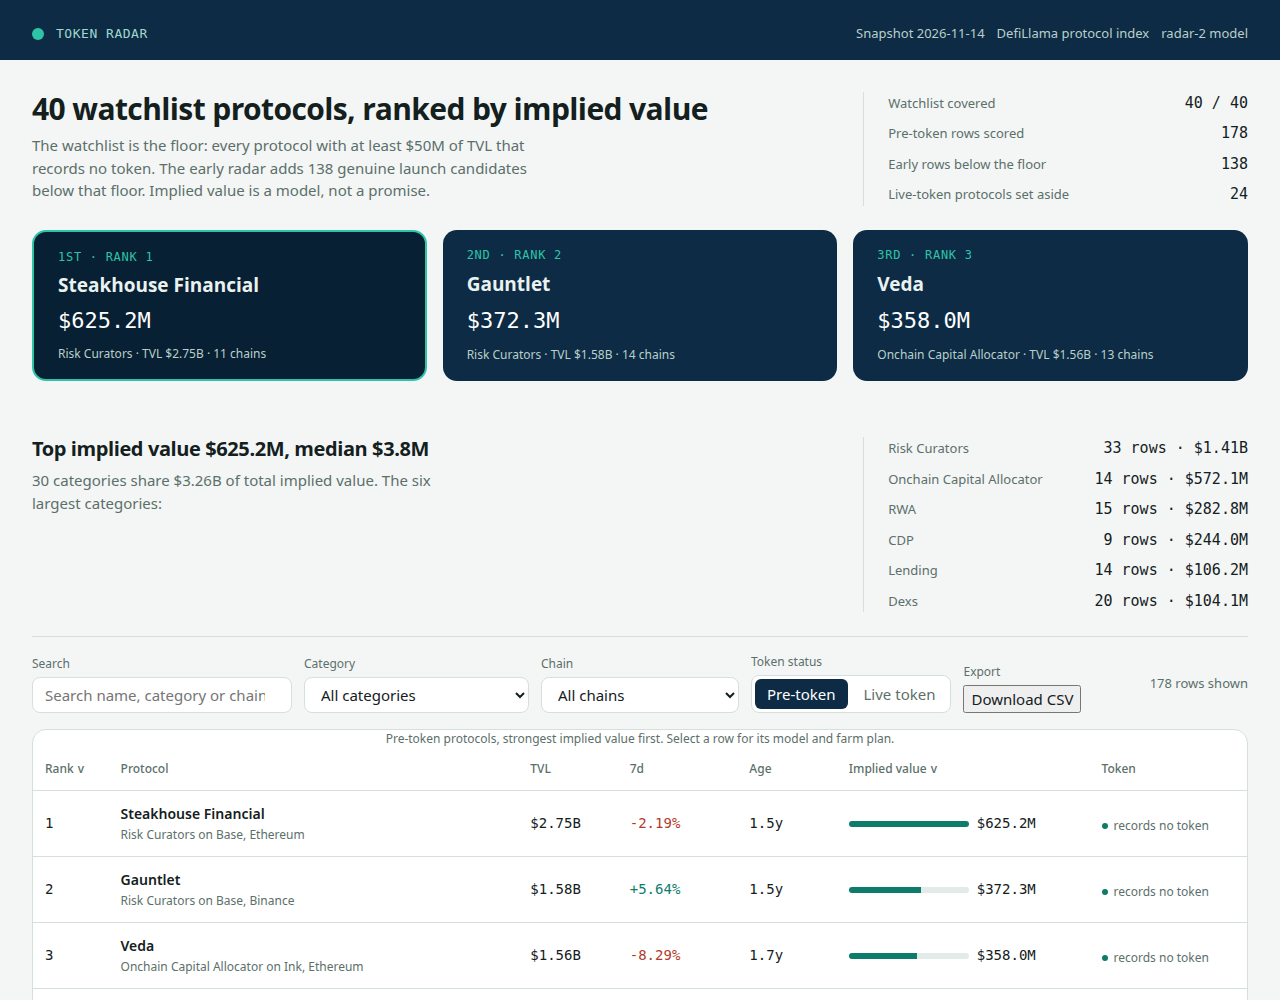
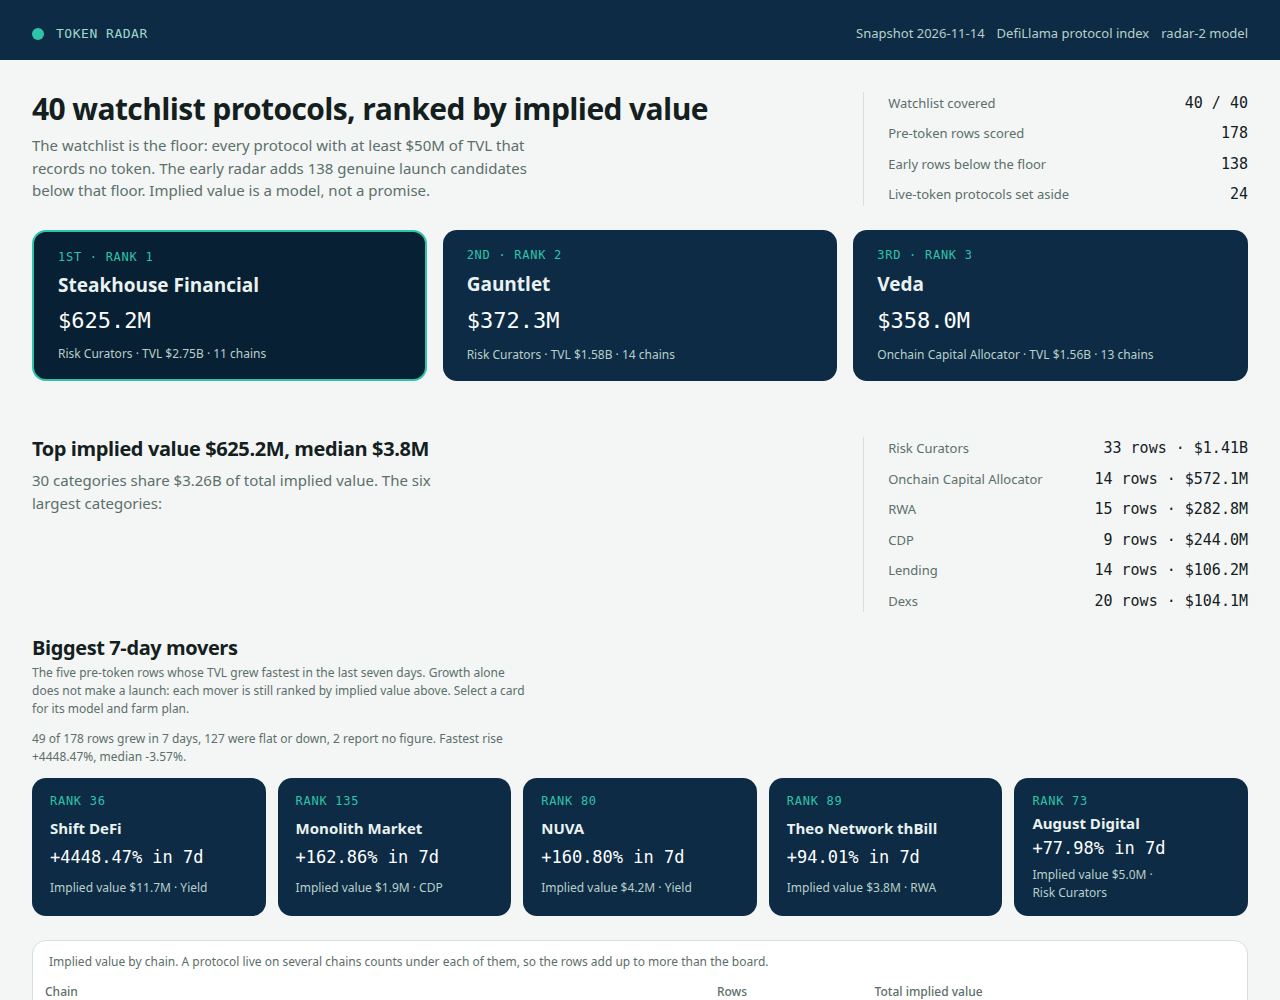
token-radar-01: round 3 - movers strip, chain table, growth summary, read-back validation

Changed region(s): [[0.0, 0.62, 1.0, 1.0], [0.9062, 0.682, 0.9688, 0.713]]

diff --git a/lib/model.ts b/lib/model.ts
@@ -163,6 +163,13 @@ export interface BoardSummary {
   categories: { name: string; rows: number; total_implied_usd: number }[];
 }
 
+/** One chain's share of the board: how many rows run on it and what they are worth together. */
+export interface ChainSummaryRow {
+  chain: string;
+  rows: number;
+  total_implied_usd: number;
+}
+
 /** Everything the dashboard needs: the board, the live set, and the model it runs. */
 export interface RadarData {
   as_of: string;
@@ -175,6 +182,9 @@ export interface RadarData {
   early_size: number;
   live_size: number;
   summary: BoardSummary;
+  movers: RadarRow[];
+  growth: GrowthSummary;
+  chainSummary: ChainSummaryRow[];
   rows: RadarRow[];
   live: LiveRow[];
 }
@@ -303,7 +313,7 @@ export function buildBoard(snapshot: Snapshot, model: ModelConstants = MODEL): B
       chain_count: s.p.chains.length,
       age_days: s.age,
     },
-    farm_steps: farmSteps(s.p, s.age).map(stepText),
+    farm_steps: farmSteps(s.p, s.age, snapshot.as_of).map(stepText),
   }));
 }
 
@@ -376,17 +386,19 @@ function weeklyFor(p: SnapshotProtocol, capital: number, chain: string): string 
 }
 
 /**
- * A protocol's farm plan: six steps, each an action with a cost and a time.
+ * A protocol's farm plan: seven steps, each an action with a cost and a time.
  * The plan is derived from the protocol's own record (category, chains,
  * TVL, age), never from a hand-written list of names. Step 2 opens the
- * position; step 3 is the weekly action for the protocol's own category.
+ * position; step 3 is the weekly action for the protocol's own category;
+ * step 7 checks the snapshot is still current before any money moves.
  */
-export function farmSteps(p: SnapshotProtocol, age: number | null): FarmStep[] {
+export function farmSteps(p: SnapshotProtocol, age: number | null, asOf?: string): FarmStep[] {
   const chain = chainOf(p);
   const capital = capitalFor(p);
   const hold = holdDaysFor(age);
   const action = actionFor(p, capital, chain);
   const weekly = weeklyFor(p, capital, chain);
+  const asOfText = asOf ?? 'the snapshot date';
   return [
     {
       text: `Use a fresh wallet that holds only the funds you plan to farm, and keep its seed phrase offline.`,
@@ -416,6 +428,11 @@ export function farmSteps(p: SnapshotProtocol, age: number | null): FarmStep[] {
     {
       text: `Write the wallet, the dates and every transaction in a farm log so you can repeat the position or unwind it.`,
       cost: 'nothing but the log',
+      time: '5 minutes',
+    },
+    {
+      text: `Check the snapshot date (${asOfText}) and confirm ${p.name} still records no token before you farm: a launch after that date ends the farm, so a stale snapshot means starting over.`,
+      cost: 'nothing but the check',
       time: '5 minutes',
     },
   ];
@@ -488,6 +505,61 @@ export function boardSummary(board: BoardRow[]): BoardSummary {
   };
 }
 
+/** The board's seven-day growth spread: its fastest rise, its middle value, and how many rows rose, fell or report no figure. */
+export interface GrowthSummary {
+  max_growth_pct: number | null;
+  median_growth_pct: number | null;
+  positive_rows: number;
+  flat_or_negative_rows: number;
+  no_data_rows: number;
+}
+
+/** The growth spread, from the rows alone: a null figure counts as no data, never as zero growth. */
+export function growthSummary(board: BoardRow[]): GrowthSummary {
+  const growths = board.map((r) => r.change_7d).filter((g): g is number => g !== null);
+  const sorted = [...growths].sort((a, b) => a - b);
+  const median =
+    sorted.length === 0
+      ? null
+      : sorted.length % 2 === 1
+        ? sorted[(sorted.length - 1) / 2]!
+        : Math.round(((sorted[sorted.length / 2 - 1]! + sorted[sorted.length / 2]!) / 2) * 100) / 100;
+  return {
+    max_growth_pct: sorted.length > 0 ? sorted[sorted.length - 1]! : null,
+    median_growth_pct: median,
+    positive_rows: growths.filter((g) => g > 0).length,
+    flat_or_negative_rows: growths.filter((g) => g <= 0).length,
+    no_data_rows: board.length - growths.length,
+  };
+}
+
+/** The five board rows with the largest seven-day growth, ties broken by implied value. */
+export function topMovers(board: BoardRow[]): BoardRow[] {
+  const growthOf = (r: BoardRow): number => (r.change_7d === null ? Number.NEGATIVE_INFINITY : r.change_7d);
+  return [...board]
+    .sort((a, b) => growthOf(b) - growthOf(a) || b.implied_value_usd - a.implied_value_usd || (a.slug < b.slug ? -1 : a.slug > b.slug ? 1 : 0))
+    .slice(0, 5);
+}
+
+/** One chain's share of the board: how many rows run on it and what they are worth together. */
+export function chainSummary(board: BoardRow[]): ChainSummaryRow[] {
+  const byChain = new Map<string, { rows: number; total_implied_usd: number }>();
+  for (const r of board) {
+    // A protocol live on several chains counts under each of them: the
+    // table answers "what runs on this chain", not "what runs only here".
+    const chains = r.chains.length > 0 ? r.chains : ['Unchained'];
+    for (const chain of chains) {
+      const slot = byChain.get(chain) ?? { rows: 0, total_implied_usd: 0 };
+      slot.rows += 1;
+      slot.total_implied_usd += r.implied_value_usd;
+      byChain.set(chain, slot);
+    }
+  }
+  return [...byChain.entries()]
+    .map(([chain, s]) => ({ chain, rows: s.rows, total_implied_usd: s.total_implied_usd }))
+    .sort((a, b) => b.total_implied_usd - a.total_implied_usd || b.rows - a.rows || (a.chain < b.chain ? -1 : a.chain > b.chain ? 1 : 0));
+}
+
 /** Everything the dashboard renders, from the snapshot. */
 export function buildRadar(snapshot: Snapshot, model: ModelConstants = MODEL): { board: BoardRow[]; radar: RadarData } {
   const board = buildBoard(snapshot, model);
@@ -504,6 +576,9 @@ export function buildRadar(snapshot: Snapshot, model: ModelConstants = MODEL): {
     early_size: early,
     live_size: live.length,
     summary: boardSummary(board),
+    movers: topMovers(board).map(radarRow),
+    growth: growthSummary(board),
+    chainSummary: chainSummary(board),
     rows: board.map(radarRow),
     live,
   };

diff --git a/main.ts b/main.ts
@@ -54,6 +54,55 @@ mkdirSync(outDir, { recursive: true });
 writeFileSync(join(outDir, 'board.json'), `${JSON.stringify({ rows: board })}\n`);
 writeFileSync(join(outDir, 'data.js'), dataScript(radar));
 
+// Read the board back and prove the file on disk is the ranking the model
+// wrote: ranks exactly 1..N in order and implied values never rising down
+// the board. A corrupt write is refused here, naming the offending row.
+const boardText = readFileSync(join(outDir, 'board.json'), 'utf8');
+let boardBack: { rows: { rank: number; slug: string; implied_value_usd: number; farm_steps: string[] }[] };
+try {
+  boardBack = JSON.parse(boardText) as { rows: { rank: number; slug: string; implied_value_usd: number }[] };
+} catch (e) {
+  process.stderr.write(`token radar: ${join(outDir, 'board.json')} does not parse as JSON: ${(e as Error).message}\n`);
+  process.exit(1);
+}
+if (!boardBack || !Array.isArray(boardBack.rows) || boardBack.rows.length !== board.length) {
+  process.stderr.write(`token radar: ${join(outDir, 'board.json')} holds ${Array.isArray(boardBack?.rows) ? boardBack.rows.length : 'no'} rows, the board has ${board.length}\n`);
+  process.exit(1);
+}
+for (let i = 0; i < boardBack.rows.length; i++) {
+  const row = boardBack.rows[i]!;
+  if (row.rank !== i + 1) {
+    process.stderr.write(`token radar: ${join(outDir, 'board.json')} row ${i + 1} is ${row.slug} with rank ${row.rank}: ranks must run 1..${board.length} in order\n`);
+    process.exit(1);
+  }
+  if (i > 0 && row.implied_value_usd > boardBack.rows[i - 1]!.implied_value_usd) {
+    process.stderr.write(`token radar: ${join(outDir, 'board.json')} ${row.slug} at rank ${row.rank} outranks ${boardBack.rows[i - 1]!.slug} on implied value: the file does not match the ranking\n`);
+    process.exit(1);
+  }
+}
+// The read-back also proves the file's farm plans and coverage, not just
+// its order: every row carries 3..12 steps of 20..600 characters, and the
+// whole watchlist is in the file. boardIssue checked the board in memory;
+// this checks the bytes that will be judged.
+const backSlugs = new Set(boardBack.rows.map((r) => r.slug));
+const missing = snapshot.watchlist.filter((s) => !backSlugs.has(s));
+if (missing.length > 0) {
+  process.stderr.write(`token radar: ${join(outDir, 'board.json')} misses ${missing.length} watchlist slug${missing.length === 1 ? '' : 's'}: ${missing.slice(0, 5).join(', ')}\n`);
+  process.exit(1);
+}
+for (const row of boardBack.rows) {
+  if (!Array.isArray(row.farm_steps) || row.farm_steps.length < 3 || row.farm_steps.length > 12) {
+    process.stderr.write(`token radar: ${join(outDir, 'board.json')} ${row.slug} has ${Array.isArray(row.farm_steps) ? row.farm_steps.length : 'no'} farm steps: each row needs 3..12\n`);
+    process.exit(1);
+  }
+  for (const step of row.farm_steps) {
+    if (typeof step !== 'string' || step.length < 20 || step.length > 600) {
+      process.stderr.write(`token radar: ${join(outDir, 'board.json')} ${row.slug} has a farm step of ${typeof step === 'string' ? step.length : 'no'} characters: each step needs 20..600\n`);
+      process.exit(1);
+    }
+  }
+}
+
 // Read the dashboard data back and prove it parses: a corrupt data.js
 // would ship a blank page, so refuse it here and name the file.
 const dataText = readFileSync(join(outDir, 'data.js'), 'utf8');
@@ -67,6 +116,27 @@ try {
   const parsed = JSON.parse(jsonText);
   if (!parsed || !Array.isArray(parsed.rows) || parsed.rows.length !== board.length) {
     process.stderr.write(`token radar: ${join(outDir, 'data.js')} holds ${Array.isArray(parsed?.rows) ? parsed.rows.length : 'no'} rows, the board has ${board.length}: the dashboard data does not match the board\n`);
+    process.exit(1);
+  }
+  // The dashboard's extra sections must be in the file too, and agree with
+  // the board: five movers, a non-empty chain table, a summary, and growth
+  // counts that add up to the board. A build that forgot one of them would
+  // otherwise ship a page with a blank section and no error anywhere.
+  if (!Array.isArray(parsed.movers) || parsed.movers.length !== 5) {
+    process.stderr.write(`token radar: ${join(outDir, 'data.js')} holds ${Array.isArray(parsed.movers) ? parsed.movers.length : 'no'} movers, the movers strip needs 5\n`);
+    process.exit(1);
+  }
+  if (!Array.isArray(parsed.chainSummary) || parsed.chainSummary.length === 0) {
+    process.stderr.write(`token radar: ${join(outDir, 'data.js')} holds no chain summary: the chain table would render empty\n`);
+    process.exit(1);
+  }
+  if (!parsed.summary || typeof parsed.summary.top_implied_usd !== 'number') {
+    process.stderr.write(`token radar: ${join(outDir, 'data.js')} holds no board summary: the summary strip would render empty\n`);
+    process.exit(1);
+  }
+  const g = parsed.growth;
+  if (!g || g.positive_rows + g.flat_or_negative_rows + g.no_data_rows !== board.length) {
+    process.stderr.write(`token radar: ${join(outDir, 'data.js')} growth counts do not add up to ${board.length} rows: the movers strip would misstate the board\n`);
     process.exit(1);
   }
 } catch (e) {
@@ -120,5 +190,6 @@ writeFileSync(
 process.stdout.write(
   `token radar: ${snapshot.protocols.length} protocols, ${snapshot.watchlist.length} on the watchlist, ${board.length} rows scored (${radar.early_size} early, ${radar.live_size} live set aside)\n` +
     `token radar: top implied value $${radar.summary.top_implied_usd}, median $${radar.summary.median_implied_usd}, ${radar.summary.category_count} categories, $${radar.summary.total_implied_usd} total implied value\n` +
+    `token radar: fastest 7-day mover ${radar.movers.length > 0 ? radar.movers[0]!.slug + ' at ' + radar.movers[0]!.change_7d + '%' : 'none'}, ${radar.growth.positive_rows} of ${board.length} rows grew\n` +
     `token radar: wrote ${join(outDir, 'board.json')}, ${join(outDir, 'data.js')}, ${join(outDir, 'dashboard')} (${dashFiles.length} files), ${join(outDir, 'screenshots')} (${shots.length} images) and ${join(outDir, 'dossier.json')}\n`,
 );

diff --git a/dashboard/app.js b/dashboard/app.js
@@ -129,7 +129,8 @@
       { text: weeklyFor(p, capital, chain), cost: 'about $2 of gas a week', time: '10 minutes a week' },
       { text: 'Hold the position for at least ' + hold + ' days so the activity is counted in more than one snapshot.', cost: 'the $' + capital + ' stays in the position', time: hold + ' days' },
       { text: "Before you withdraw, open the protocol's own points or rewards page and claim only from the link it publishes.", cost: 'no fee to check, and never pay to claim', time: '10 minutes' },
-      { text: 'Write the wallet, the dates and every transaction in a farm log so you can repeat the position or unwind it.', cost: 'nothing but the log', time: '5 minutes' }
+      { text: 'Write the wallet, the dates and every transaction in a farm log so you can repeat the position or unwind it.', cost: 'nothing but the log', time: '5 minutes' },
+      { text: 'Check the snapshot date (' + DATA.as_of + ') and confirm ' + p.name + ' still records no token before you farm: a launch after that date ends the farm, so a stale snapshot means starting over.', cost: 'nothing but the check', time: '5 minutes' }
     ].map(stepText);
   }
 
@@ -236,6 +237,72 @@
         el('p', { text: s.category_count + ' categories share ' + fmtUsd(s.total_implied_usd) + ' of total implied value. The six largest categories:' })
       ),
       el('div', { class: 'facts' }, chips)
+    );
+  }
+
+  function moversStrip() {
+    var movers = DATA.movers;
+    if (!movers || movers.length === 0) return null;
+    var g = DATA.growth;
+    var spread = g ? el('p', { class: 'sub', text: g.positive_rows + ' of ' + DATA.board_size + ' rows grew in 7 days, ' + g.flat_or_negative_rows + ' were flat or down, ' + g.no_data_rows + ' report no figure. Fastest rise ' + fmtPct(g.max_growth_pct) + ', median ' + fmtPct(g.median_growth_pct) + '.' }) : null;
+    var cards = movers.map(function (r) {
+      var growth = r.change_7d === null ? 'n/a' : fmtPct(r.change_7d);
+      var growthClass = r.change_7d === null ? '' : r.change_7d >= 0 ? 'pos' : 'neg';
+      return el('div', {
+        class: 'mover-card',
+        tabindex: '0',
+        role: 'button',
+        'aria-label': 'Open details for ' + r.name,
+        onclick: function () { openDetail(r.slug); },
+        onkeydown: function (e) { if (e.key === 'Enter' || e.key === ' ') { e.preventDefault(); openDetail(r.slug); } }
+      },
+        el('span', { class: 'place', text: 'Rank ' + r.rank }),
+        el('b', { text: r.name }),
+        el('span', { class: 'val num ' + growthClass, text: growth + ' in 7d' }),
+        el('span', { class: 'sub', text: 'Implied value ' + fmtUsd(r.implied_value_usd) + ' · ' + (r.category || 'Other') })
+      );
+    });
+    return el('section', { class: 'movers', 'aria-label': 'Biggest 7-day movers' },
+      el('h2', { text: 'Biggest 7-day movers' }),
+      el('p', { class: 'sub', text: 'The five pre-token rows whose TVL grew fastest in the last seven days. Growth alone does not make a launch: each mover is still ranked by implied value above. Select a card for its model and farm plan.' }),
+      spread,
+      el('div', { class: 'movers-grid' }, cards)
+    );
+  }
+
+  function chainTable() {
+    var rows = DATA.chainSummary;
+    if (!rows || rows.length === 0) return null;
+    var tbody = el('tbody');
+    rows.forEach(function (c) {
+      tbody.appendChild(el('tr', null,
+        el('td', null, el('b', { text: c.chain })),
+        el('td', { class: 'num', text: String(c.rows) }),
+        el('td', { class: 'num', text: fmtUsd(c.total_implied_usd) })
+      ));
+    });
+    // Totals count a multi-chain protocol once per chain, as the rows do:
+    // the footer says so, so nobody reads it as the board's total.
+    var totalRows = rows.reduce(function (a, c) { return a + c.rows; }, 0);
+    var totalImplied = rows.reduce(function (a, c) { return a + c.total_implied_usd; }, 0);
+    var tfoot = el('tfoot', null, el('tr', null,
+      el('td', null, el('b', { text: 'All chains (counted per chain)' })),
+      el('td', { class: 'num', text: String(totalRows) }),
+      el('td', { class: 'num', text: fmtUsd(totalImplied) })
+    ));
+    return el('section', { class: 'panel chain-panel', 'aria-label': 'Implied value by chain' },
+      el('div', { class: 'table-wrap' },
+        el('table', null,
+          el('caption', { class: 'sub', text: 'Implied value by chain. A protocol live on several chains counts under each of them, so the rows add up to more than the board.' }),
+          el('thead', null, el('tr', null,
+            el('th', { scope: 'col', text: 'Chain' }),
+            el('th', { scope: 'col', text: 'Rows' }),
+            el('th', { scope: 'col', text: 'Total implied value' })
+          )),
+          tbody,
+          tfoot
+        )
+      )
     );
   }
 
@@ -449,6 +516,8 @@
     shell.appendChild(lede());
     shell.appendChild(top3());
     shell.appendChild(summaryStrip());
+    shell.appendChild(moversStrip());
+    shell.appendChild(chainTable());
     shell.appendChild(controls());
     shell.appendChild(state.tab === 'pre-token' ? boardTable() : liveTable());
     if (state.tab === 'pre-token') shell.appendChild(modelPanel());

diff --git a/dashboard/app.css b/dashboard/app.css
@@ -52,6 +52,24 @@ button { cursor: pointer; }
 .top3-card b { font-size: 19px; line-height: 1.2; }
 .top3-card .val { font-family: var(--font-num); font-size: 22px; color: #ffffff; }
 .top3-card .sub { color: #b9cfc9; font-size: 12px; }
+.movers { margin-bottom: var(--s5); }
+.movers h2 { margin-bottom: var(--s1); }
+.movers > p { color: var(--muted); max-width: 72ch; margin-bottom: var(--s3); }
+.movers-grid { display: grid; grid-template-columns: repeat(5, minmax(0, 1fr)); gap: var(--s3); }
+.mover-card { background: var(--navy); color: #eaf2f0; border-radius: var(--r-panel); padding: var(--s3) var(--s4); display: grid; gap: var(--s1); }
+.mover-card { cursor: pointer; border: 2px solid transparent; }
+.mover-card:hover { background: var(--navy-deep); border-color: #2ec4a8; }
+.mover-card:focus-visible { outline: 2px solid #2ec4a8; outline-offset: 2px; }
+.mover-card .place { font-family: var(--font-num); font-size: 12px; letter-spacing: 0.06em; color: #2ec4a8; text-transform: uppercase; }
+.mover-card b { font-size: 15px; line-height: 1.2; }
+.mover-card .val { font-family: var(--font-num); font-size: 17px; color: #ffffff; }
+.mover-card .val.neg { color: #f0a49b; }
+.mover-card .sub { color: #b9cfc9; font-size: 12px; }
+.chain-panel { margin-bottom: var(--s5); }
+.chain-panel caption { padding: var(--s3) var(--s4) 0; text-align: left; }
+@media (max-width: 900px) {
+  .movers-grid { grid-template-columns: 1fr 1fr; }
+}
 .controls { display: flex; flex-wrap: wrap; align-items: end; gap: var(--s3); padding: var(--s4) 0; border-top: 1px solid var(--border); }
 .field { display: grid; gap: var(--s1); }
 .field label { color: var(--muted); font-size: 12px; }
